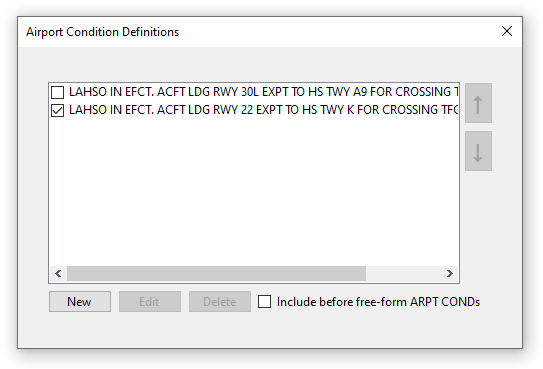
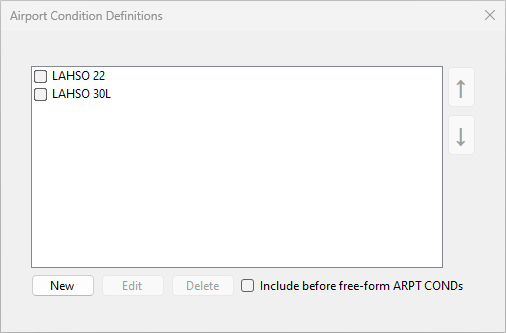
Updates
- Updated screenshots
- Remove reference to software updates
- Updated Getting Help section

Changed region(s): [[0.0, 0.0, 0.9783, 0.961], [0.0, 0.991, 1.0, 1.0], [0.9783, 0.0, 1.0, 0.03]]

diff --git a/docs/client.md b/docs/client.md
@@ -69,11 +69,11 @@ The **Suppress ATIS update notification sound** will disable the aural notificat
 
 The **Keep vATIS window visible** option will keep the vATIS window visible (on top) if checked.
 
-![Settings](media/SettingsWindow.png ':size=609')
+![Settings](media/SettingsWindow.png ':size=573')
 
 ## Profile Configuration
 
-![Profile Configuration](media/ProfileConfiguration.png ':size=602')
+![Profile Configuration](media/ProfileConfiguration.png ':size=493')
 
 The Profile Configuration window is where you can add, modify, or delete Composites. The left sidebar is a list of all Composites added to the current Profile. Select a Composite from the list to change its settings. Additionally, you can click the **Manage Composite** button to Copy, Rename or Delete the Composite. 
 
@@ -179,7 +179,7 @@ Additional variables include:
 * `$metar` The current METAR string
 * `$atiscode` The current ATIS letter
 
-![Contractions](media/TabPresetsExternalATIS.png ':size=602')
+![Contractions](media/TabPresetsExternalATIS.png ':size=493')
 
 #### Contractions
 
@@ -211,7 +211,7 @@ When a new ATIS update is available, the vATIS client icon will flash in the Win
 
 ## Airport Conditions
 
-![Airport Conditions](media/AirportConditionDefinitions.png ':size=369')
+![Airport Conditions](media/AirportConditionDefinitions.png ':size=333')
 
 In addition to the free-form Airport Conditions text, you can also define static messages that can be toggled on or off. This is useful for defining messages that you may frequently use but need to the ability to toggle them on or off. These messages are saved with the Composite, so they are available to use with any selected Preset.
 
@@ -221,7 +221,7 @@ The **Include before free-form ARPT CONDs** checkbox allows you to prioritize th
 
 ## NOTAMs
 
-![NOTAM Conditions](media/NotamDefinitions.png ':size=369')
+![NOTAM Conditions](media/NotamDefinitions.png ':size=333')
 
 In addition to the free-form NOTAMS text, you can also define static messages that can be toggled on or off. This is useful for defining messages that you may frequently use but need to the ability to toggle them on or off. These messages are saved with the Composite, so they are available to use with any selected Preset.
 
@@ -244,12 +244,6 @@ To manually record an ATIS, the Composite must be configured to be voice recorde
 5. Once you are satisfied, click the **Save** button. The ATIS will begin transmitting on the network.
 
 When a new METAR update is available, you will be notified by the client icon flashing in the taskbar and the ATIS letter blinking yellow. See [ATIS Composites](client?id=atis-composites) section for details on how to acknowledge the update. Follow steps 2-5 to record a new ATIS.
-
-## Software Updates
-
-Each time you launch vATIS, it will check if there is a newer version available. You will be prompted if a new update is available.
-
-If you choose to download the update, vATIS will download the updated installer. When the download is complete, vATIS will close and the installer will open to begin the installation of the new version.
 
 ## Text Parsing Rules
 

diff --git a/docs/getting-help.md b/docs/getting-help.md
@@ -1,3 +1,3 @@
 ## Getting Help
 
-If you're having trouble with vATIS, please post a thread in the [vATIS Support Forum](https://forums.vatsim.net/forum/332-vatis/).
+If you're having trouble, please open an Issue on the [vATIS GitHub](https://github.com/vatis-project/vatis) or post a thread in the [Controller Software](https://forum.vatsim.net/c/support/controller-software/11) support forum.
